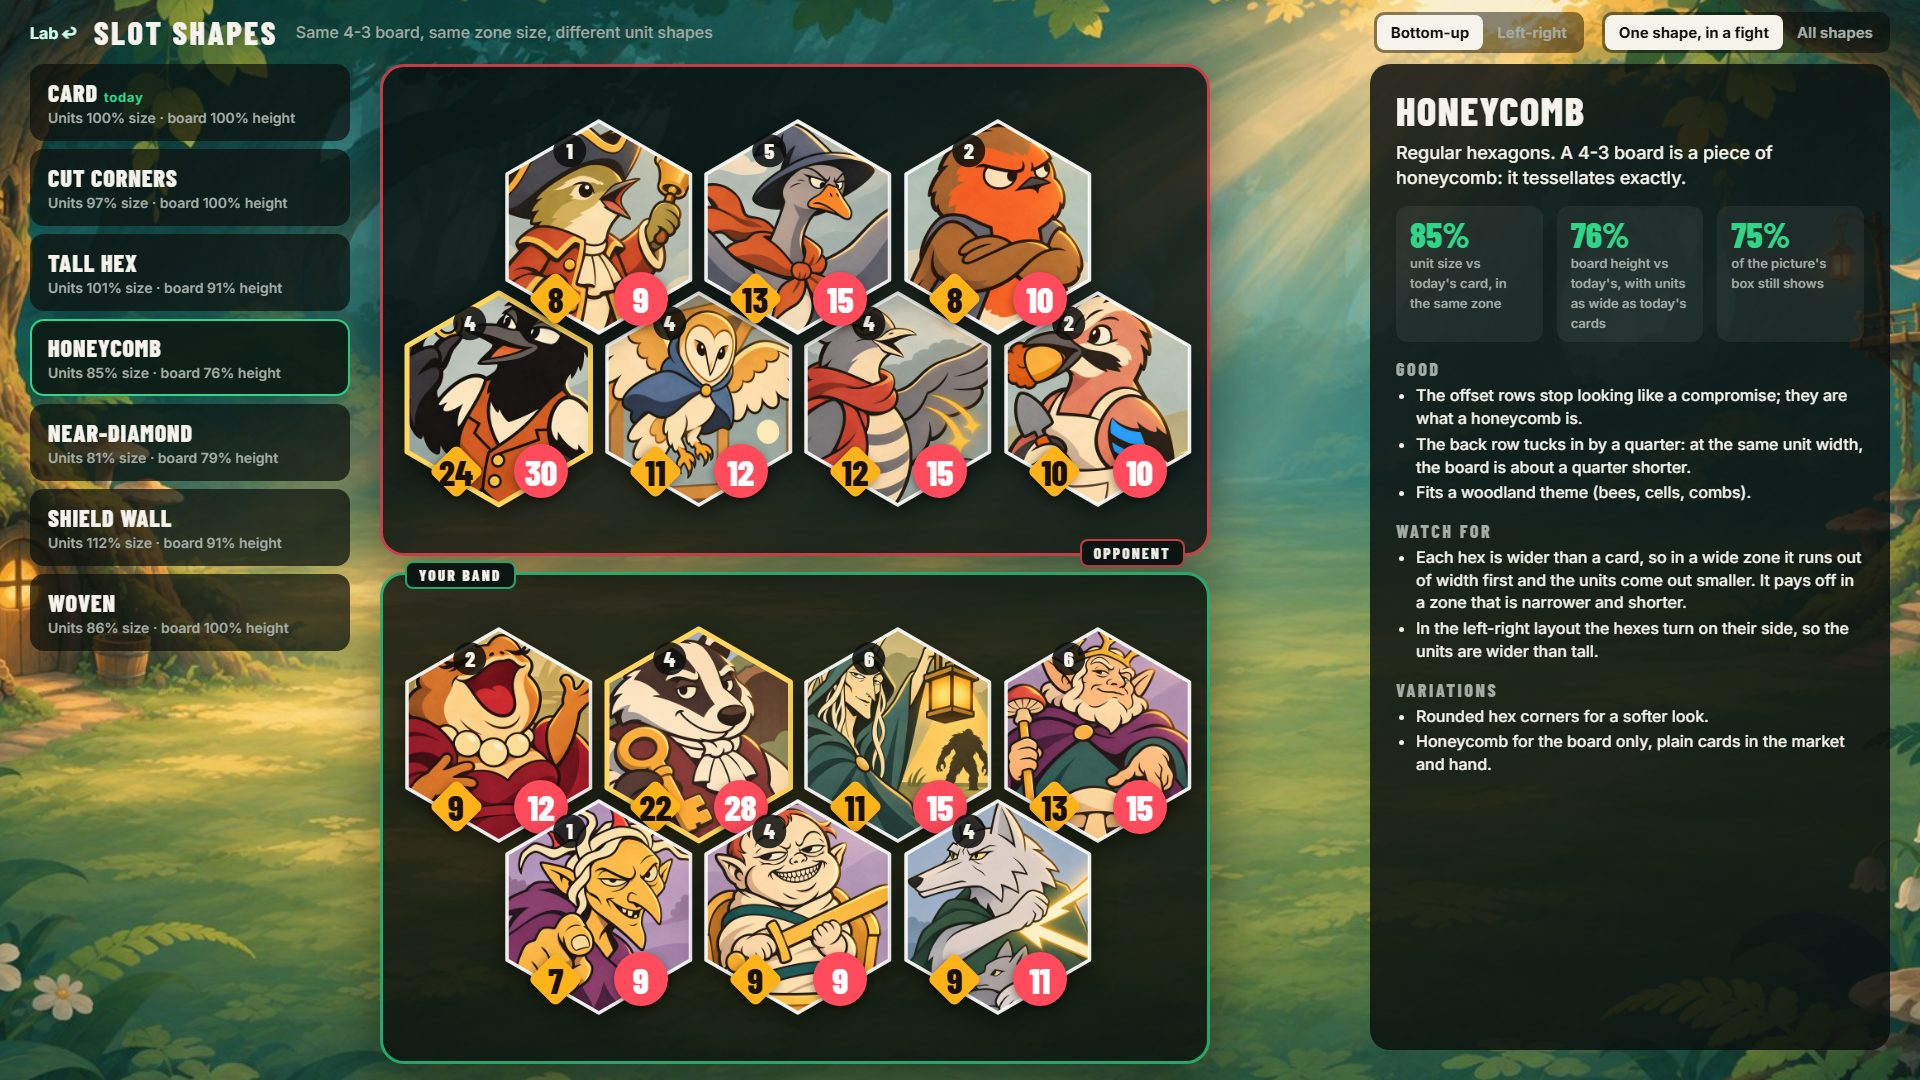
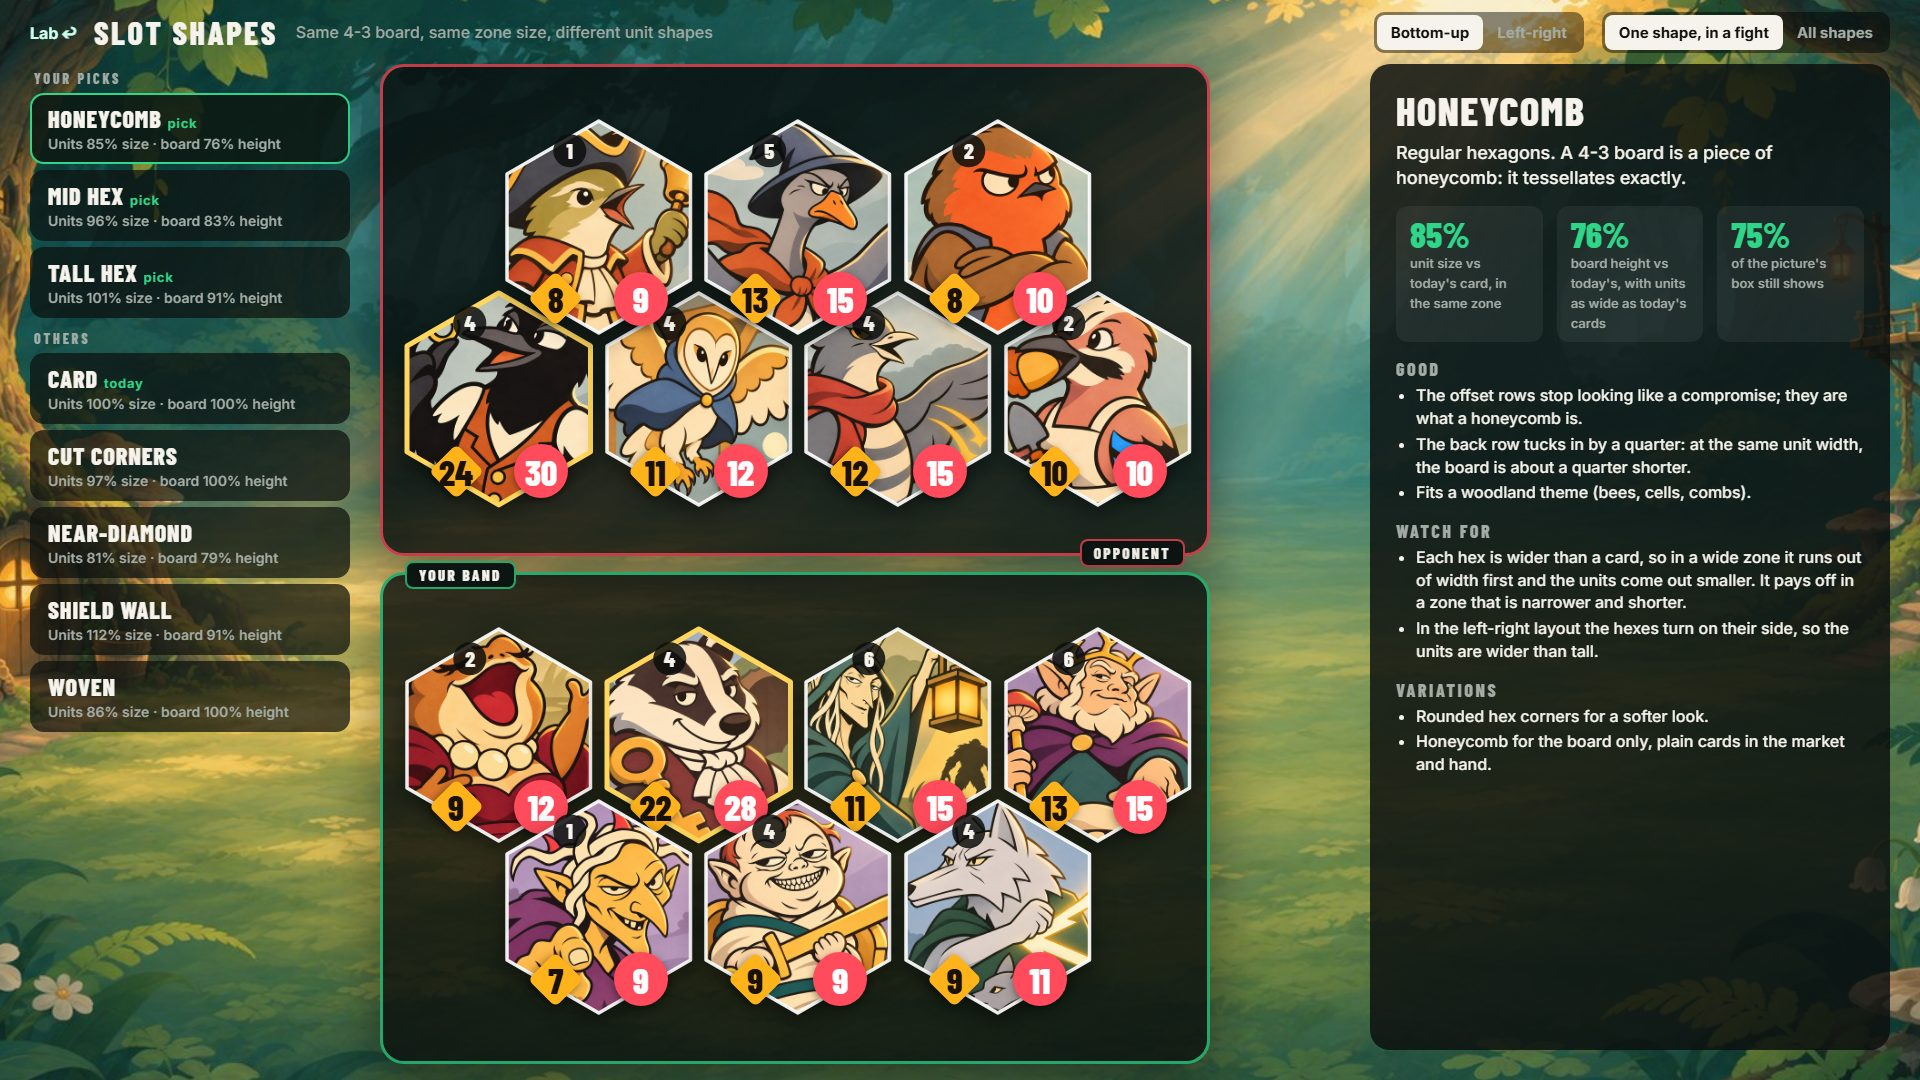
Slot shapes: add the mid hex, lead with the owner's picks, hand-placed picture crops
Pictures are scaled to cover each shape without stretching, zoomed a touch
on hexes and panned so faces sit in the hex's wide middle band. Units wider
than tall (honeycomb on its side) keep the top edge so heads stay whole.

Changed region(s): [[0.0, 0.0611, 0.625, 0.9472], [0.1875, 0.1222, 0.625, 0.4583]]

diff --git a/docs/design-lab/journey/shapes/shapes.js b/docs/design-lab/journey/shapes/shapes.js
@@ -24,12 +24,17 @@
       good: ['Crisp and angular for almost no art lost.', 'Where four slots meet, the gaps form small diamonds, a hint of weave.'],
       bad: ['Doesn\'t tuck: same height as the plain card.', 'On its own, it reads as a style choice more than a shape.'],
       vary: ['Cut only the corners that face the next row.', 'Cut the corners deeper, until it is nearly an octagon.'] },
-    { id: 'longhex', name: 'Tall hex', a: { bu: .75, lr: .75 }, t: .17,
+    { id: 'longhex', name: 'Tall hex', pick: true, a: { bu: .75, lr: .75 }, t: .17,
       line: 'A card with a point at each end. The points lock into the next row.',
       good: ['Keeps a card\'s tall shape and most of the art.', 'The back row tucks in a little: at the same unit width, the board is about a tenth shallower.', 'Rows read as one locked block.'],
       bad: ['The tip of each point crops the art (ears and hats).', 'Numbers sit on the slanted corners, slightly tighter.'],
       vary: ['Point only toward the enemy (a spearhead).', 'A sharper point, partway to the near-diamond.'] },
-    { id: 'honey', name: 'Honeycomb', a: { bu: .866, lr: 1.155 }, t: .25,
+    { id: 'midhex', name: 'Mid hex', pick: true, a: { bu: .81, lr: .81 }, t: .21,
+      line: 'Between the two: taller than a regular hexagon, squatter than the tall hex.',
+      good: ['Keeps a portrait shape while tucking in almost as far as the honeycomb.', 'Stays taller than wide in both layouts, so it never turns on its side.', 'Faces sit in a wider middle band than in the tall hex.'],
+      bad: ['Not a true tessellation of the regular kind, so it reads less instantly as "honeycomb".', 'Still crops ears and hats in the top corners.'],
+      vary: ['Round the six corners slightly.', 'The same proportions with a flat top on the front row (toward the enemy).'] },
+    { id: 'honey', name: 'Honeycomb', pick: true, a: { bu: .866, lr: 1.155 }, t: .25,
       line: 'Regular hexagons. A 4-3 board is a piece of honeycomb: it tessellates exactly.',
       good: ['The offset rows stop looking like a compromise; they are what a honeycomb is.', 'The back row tucks in by a quarter: at the same unit width, the board is about a quarter shorter.', 'Fits a woodland theme (bees, cells, combs).'],
       bad: ['Each hex is wider than a card, so in a wide zone it runs out of width first and the units come out smaller. It pays off in a zone that is narrower and shorter.', 'In the left-right layout the hexes turn on their side, so the units are wider than tall.'],
@@ -50,7 +55,26 @@
       bad: ['Leaning pictures can feel unstable.', 'Doesn\'t tuck: same height as the plain card.'],
       vary: ['Lean only the empty slots, as a woven mat under upright cards.', 'A gentler slant, enough to suggest the weave.'] },
   ];
+  // The owner's picks lead (11 Nov): honeycomb, the in-between hex, the tall hex.
+  const ORDER = ['honey', 'midhex', 'longhex', 'card', 'chamfer', 'lozenge', 'shield', 'weave'];
+  SHAPES.sort((x, y) => ORDER.indexOf(x.id) - ORDER.indexOf(y.id));
   const byId = Object.fromEntries(SHAPES.map((s) => [s.id, s]));
+
+  // Placing the picture. Portraits are square and the face sits about 30% down.
+  // Scale to cover the whole unit (never stretched), zoom in a touch on hexes, then
+  // pan so the face lands in the hex's wide middle band, clear of the top point.
+  // The bottom crops first: that is the body, where the numbers sit anyway.
+  const FACE = 0.30;
+  function art(sh, lay, W, H) {
+    // A unit wider than tall (the honeycomb on its side) already crops top and
+    // bottom: no zoom, and keep the top edge so heads and hats stay whole.
+    const wide = W > H, pointy = sh.t && lay === 'bu';
+    const zoom = sh.round || wide ? 1 : pointy ? 1.1 : 1.04;
+    const side = Math.max(W, H) * zoom;
+    const target = pointy ? Math.max(0.36, sh.t + 0.14) : 0.34;
+    const y = wide ? 0 : Math.min(0, Math.max(H - side, target * H - FACE * side));
+    return { x: (W - side) / 2, y, side };
+  }
 
   function poly(sh, row) {
     if (sh.weave) { const s = sh.weave; return row === 'f' ? [[s, 0], [1, 0], [1 - s, 1], [0, 1]] : [[0, 0], [1 - s, 0], [1, 1], [s, 1]]; }
@@ -104,10 +128,11 @@
     const pos = `left:${x.toFixed(1)}px;top:${y.toFixed(1)}px;width:${W.toFixed(1)}px;height:${H.toFixed(1)}px`;
     if (!u) return `<div class="u empty" style="${pos}"><svg viewBox="0 0 ${W} ${H}"><path d="${d}" class="dash"/></svg></div>`;
     const b = Math.max(30, Math.min(54, Math.min(W, H) * .3));
+    const im = art(sh, lay, W, H);
     const yl = H * .84, [l, r] = span(pts, W, yl), [tl] = span(pts, W, H * .14);
     return `<div class="u ${u.golden ? 'golden' : ''}" style="${pos};--b:${b.toFixed(0)}px">
       <svg viewBox="0 0 ${W} ${H}"><defs><clipPath id="${id}"><path d="${d}"/></clipPath></defs>
-        <image href="${J.por(u.id)}" x="0" y="0" width="${W}" height="${H}" preserveAspectRatio="xMidYMid slice" clip-path="url(#${id})"/>
+        <image href="${J.por(u.id)}" x="${im.x.toFixed(1)}" y="${im.y.toFixed(1)}" width="${im.side.toFixed(1)}" height="${im.side.toFixed(1)}" preserveAspectRatio="none" clip-path="url(#${id})"/>
         <path d="${d}" class="edge"/></svg>
       <span class="tier" style="left:${(tl + b * .42).toFixed(0)}px;top:${(H * .14).toFixed(0)}px">${u.tier}</span>
       <span class="atk" style="left:${(l + b * .3).toFixed(0)}px;top:${yl.toFixed(0)}px">${u.atk}</span>
@@ -158,7 +183,7 @@
       ${seg('lay', [['bu', 'Bottom-up'], ['lr', 'Left-right']])}${seg('view', [['one', 'One shape, in a fight'], ['all', 'All shapes']])}</header>`;
   }
   function list() {
-    return `<nav class="list">${SHAPES.map((s) => { const z = size(s, S.lay); return `<button data-shape="${s.id}" class="${S.shape === s.id ? 'on' : ''}"><b>${s.name}${s.tag ? ` <i>${s.tag}</i>` : ''}</b><span>Units ${z.pct}% size · board ${z.deep}% ${S.lay === 'bu' ? 'height' : 'width'}</span></button>`; }).join('')}</nav>`;
+    return `<nav class="list">${SHAPES.map((s, i) => { const z = size(s, S.lay); return `${i === 0 ? '<h4>Your picks</h4>' : s.id === 'card' ? '<h4>Others</h4>' : ''}<button data-shape="${s.id}" class="${S.shape === s.id ? 'on' : ''}"><b>${s.name}${s.tag ? ` <i>${s.tag}</i>` : ''}${s.pick ? ' <i>pick</i>' : ''}</b><span>Units ${z.pct}% size · board ${z.deep}% ${S.lay === 'bu' ? 'height' : 'width'}</span></button>`; }).join('')}</nav>`;
   }
   function notes(sh) {
     const z = size(sh, S.lay);

diff --git a/docs/design-lab/journey/index.html b/docs/design-lab/journey/index.html
@@ -109,15 +109,16 @@
   <section class="v">
     <div class="shots">
       <a href="shapes/index.html?shape=honey&lay=bu"><img src="shots/shapes-honey-bu.jpg" alt="Honeycomb units in a bottom-up fight"></a>
-      <a href="shapes/index.html?view=all&lay=bu"><img src="shots/shapes-all-bu.jpg" alt="All slot shapes, bottom-up"></a>
-      <a href="shapes/index.html?shape=shield&lay=lr"><img src="shots/shapes-shield-lr.jpg" alt="Shield wall units, left-right"></a>
+      <a href="shapes/index.html?shape=midhex&lay=bu"><img src="shots/shapes-midhex-bu.jpg" alt="Mid hex units in a bottom-up fight"></a>
+      <a href="shapes/index.html?shape=honey&lay=lr"><img src="shots/shapes-honey-lr.jpg" alt="Honeycomb units, left-right"></a>
     </div>
     <div>
       <div class="num">Experiment</div>
       <h2>Slot shapes</h2>
       <ul>
-        <li>The same 4-3 board drawn with seven unit shapes: card, cut corners, tall hex, honeycomb, near-diamond, shield wall and woven, in both layouts and the same zone sizes as the looks.</li>
-        <li>Shapes that point into the next row let the back row tuck in, so the board gets shallower. Bottom-up, at today's unit width: honeycomb 76% of the height, near-diamond 79%, tall hex and shield wall 91%.</li>
+        <li><b>Your picks lead: honeycomb, mid hex (between the two) and tall hex.</b> The others stay for comparison: card, cut corners, near-diamond, shield wall and woven. Both layouts, the same zone sizes as the looks.</li>
+        <li>Pictures are placed by hand, never stretched: scaled to cover the shape, zoomed a touch on hexes, and panned so the face sits in the hex's wide middle band. Units wider than tall (the honeycomb on its side) keep the top of the picture, so heads and hats stay whole.</li>
+        <li>Shapes that point into the next row let the back row tuck in, so the board gets shallower. Bottom-up, at today's unit width: honeycomb 76% of the height, mid hex 83%, tall hex 91%.</li>
         <li>Each shape shows its unit size in the same zone, how much of the picture survives, what works, what to watch, and variations.</li>
       </ul>
       <a class="open" href="shapes/index.html">Open Slot shapes</a>

diff --git a/docs/design-lab/journey/shapes/shapes.css b/docs/design-lab/journey/shapes/shapes.css
@@ -13,7 +13,9 @@ button { all: unset; box-sizing: border-box; cursor: pointer; }
 .seg button.on { background: var(--ink); color: #111; }
 
 /* The shape list (left) */
-.list { position: absolute; left: 30px; top: 64px; width: 320px; display: flex; flex-direction: column; gap: 8px; }
+.list { position: absolute; left: 30px; top: 64px; width: 320px; display: flex; flex-direction: column; gap: 6px; }
+.list h4 { margin: 6px 4px 0; font: 800 14px var(--num); letter-spacing: .2em; text-transform: uppercase; color: var(--dim); }
+.list button { padding: 9px 16px !important; }
 .list button { display: block; padding: 12px 16px; border-radius: 14px; background: rgba(12,16,14,.72); border: 2px solid transparent; }
 .list button.on { border-color: var(--go); background: rgba(12,26,20,.9); }
 .list b { display: block; font: 800 24px var(--num); letter-spacing: .04em; text-transform: uppercase; }
